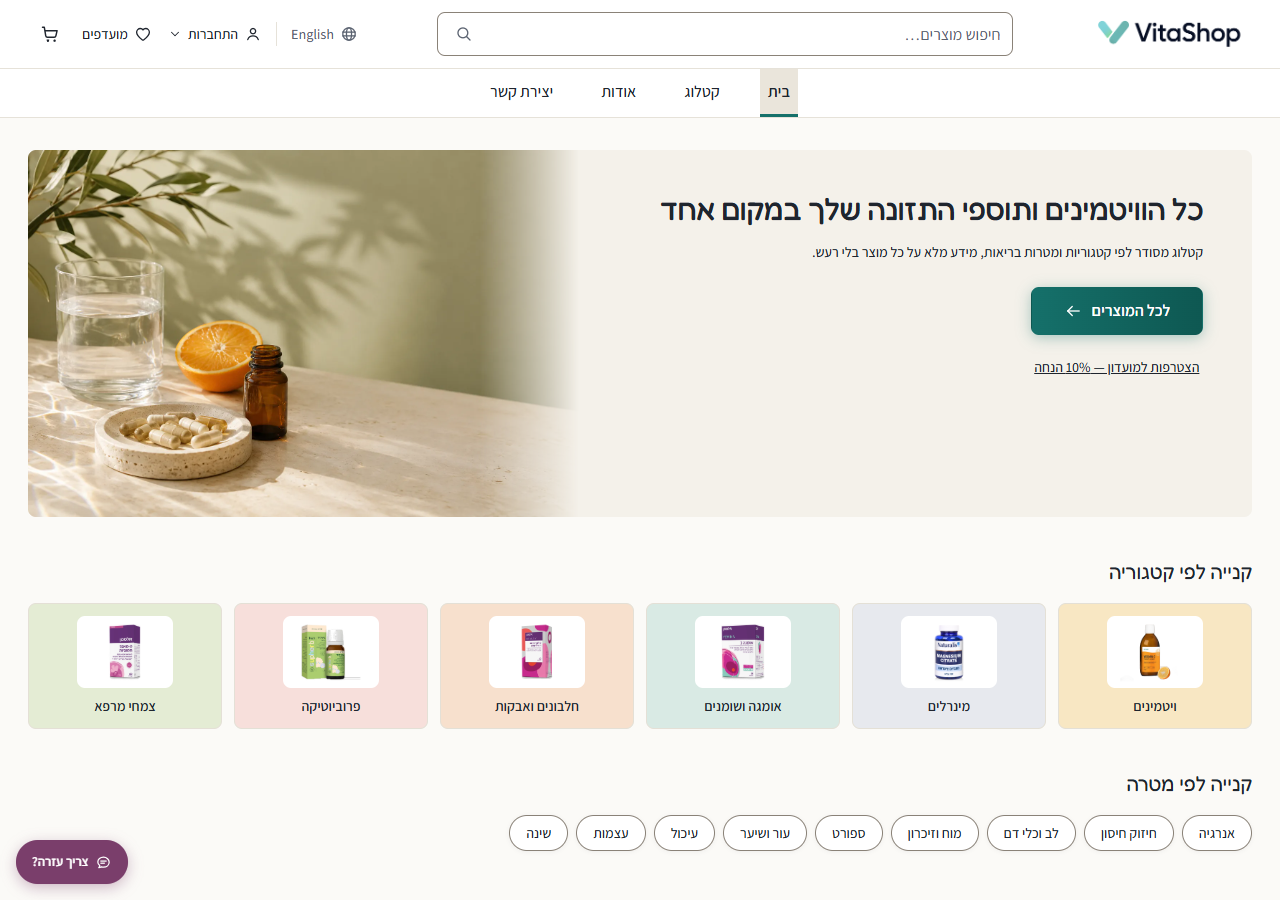
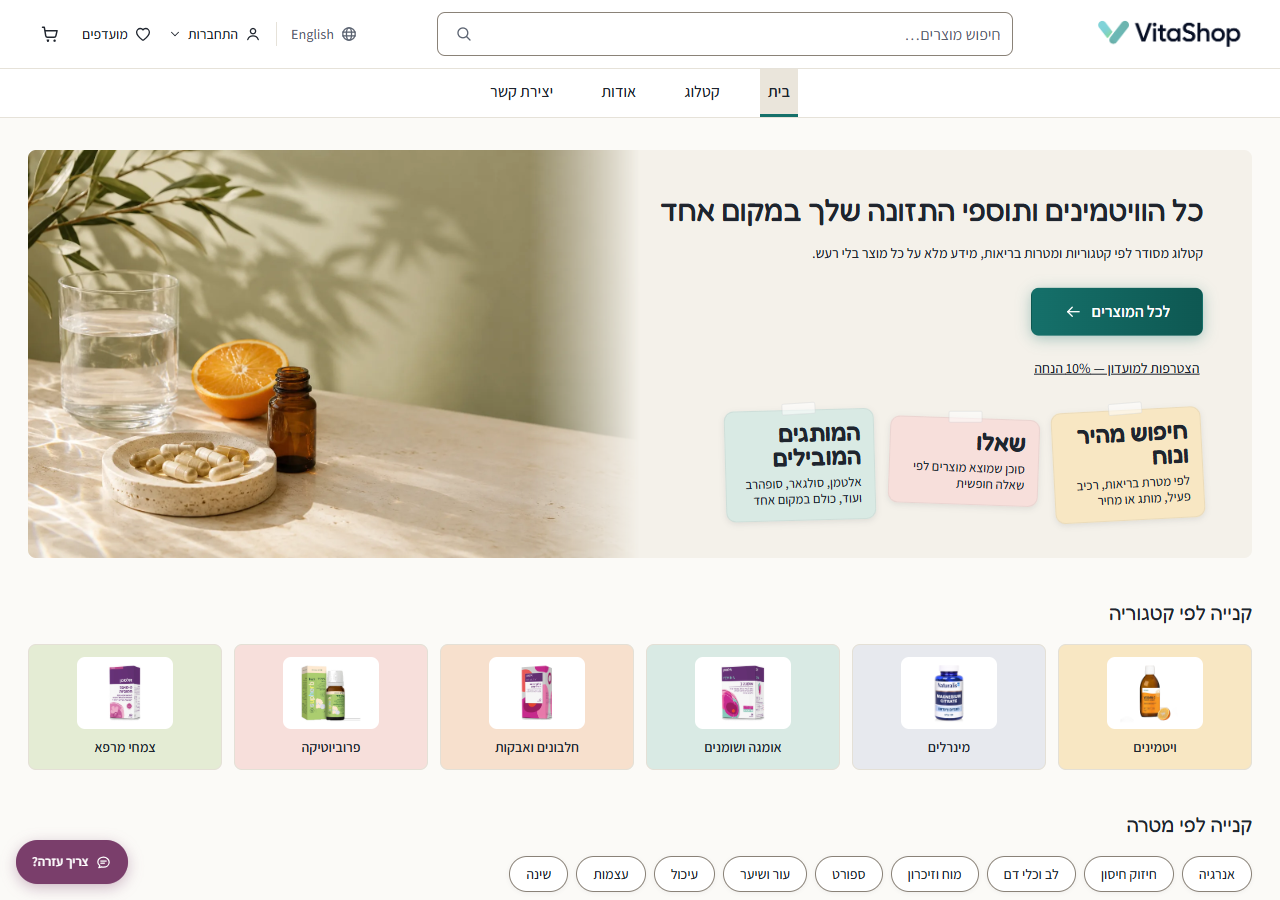
docs(readme): home screenshot recaptured with the redesigned hero
Live capture at 1280x900, Hebrew: centred text block, the three label
stickers (search / ask / popular brands) and the taller 3:1 band.

diff --git a/README.md b/README.md
@@ -222,4 +222,4 @@ An academic project. Not a real store — no orders are fulfilled and no payment
 
 ---
 
-Last updated: 2026-09-04
+Last updated: 2026-09-06
